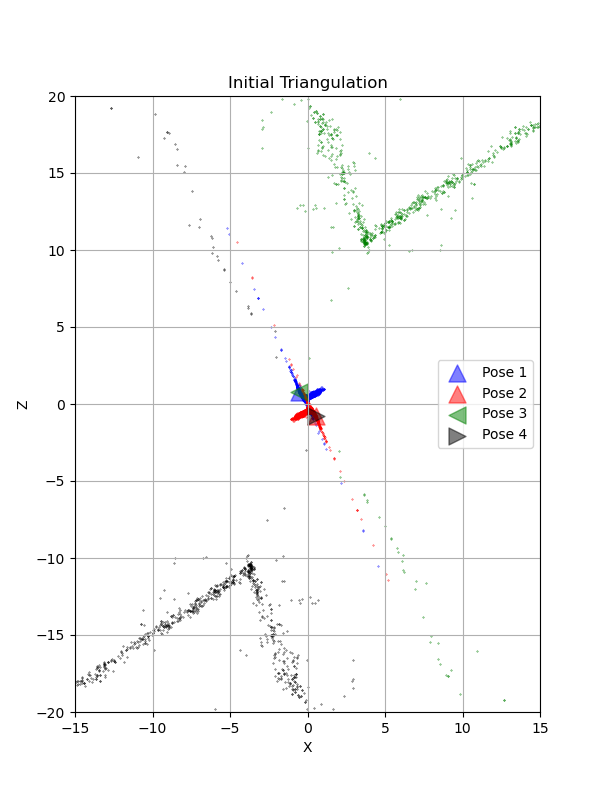
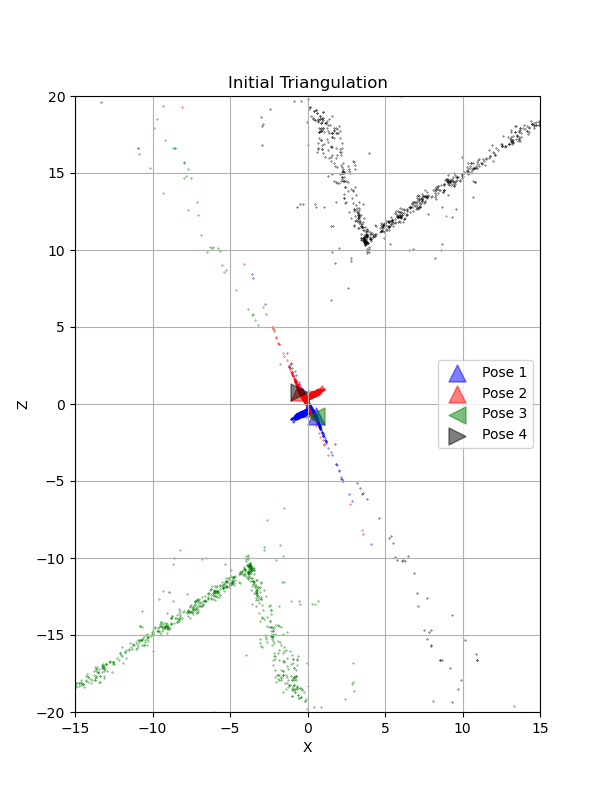
BA fixed

diff --git a/Wrapper.py b/Wrapper.py
@@ -162,15 +162,15 @@ def main():
             Inliers3D_all_img[com_ids] = X[:, :3]
             Inliers3D_all_img_ids[com_ids] = 1
 
-        R_set, C_set, Optim_X = BundleAdjustment(x_coords, y_coords, inlier_ids, Inliers3D_all_img, Inliers3D_all_img_ids,
-                                                 Pose_Rotation, Pose_Translation, K, i)
+        # R_set, C_set, Optim_X = BundleAdjustment(x_coords, y_coords, inlier_ids, Inliers3D_all_img, Inliers3D_all_img_ids,
+        #                                          Pose_Rotation, Pose_Translation, K, i)
 
     Inliers3D_all_img_ids[Inliers3D_all_img[:,2] < 0] = 0
 
     indices = np.where(Inliers3D_all_img_ids[:, 0])
     X = Inliers3D_all_img[indices]
-
-    PlotFinalPoses(R_set=R_set, C_set=C_set, X=X)
+    
+    PlotFinalPoses(R_set=Pose_Rotation, C_set=Pose_Translation, X=X)
 
 
 

diff --git a/Utils/Utils.py b/Utils/Utils.py
@@ -106,10 +106,11 @@ def PlotFinalPoses(R_set, C_set, X):
     plt.scatter(X[:,0], X[:,2], s=0.5, color='k')
 
     for R, C in zip(R_set, C_set):
-        eular = Rotation.from_matrix(R)
-        R_ = eular.as_rotvec()
-        R_ = np.rad2deg(R_)
-        plt.plot(C[0], C[2], marker=(3,0,int(R_[1])), markersize=15, linestyle='None')
+        if R is not 0 and C is not 0:
+            eular = Rotation.from_matrix(R)
+            R_ = eular.as_rotvec()
+            R_ = np.rad2deg(R_)
+            plt.plot(C[0], C[2], marker=(3,0,int(R_[1])), markersize=15, linestyle='None')
     
     plt.xlabel('X')
     plt.ylabel('Z')
